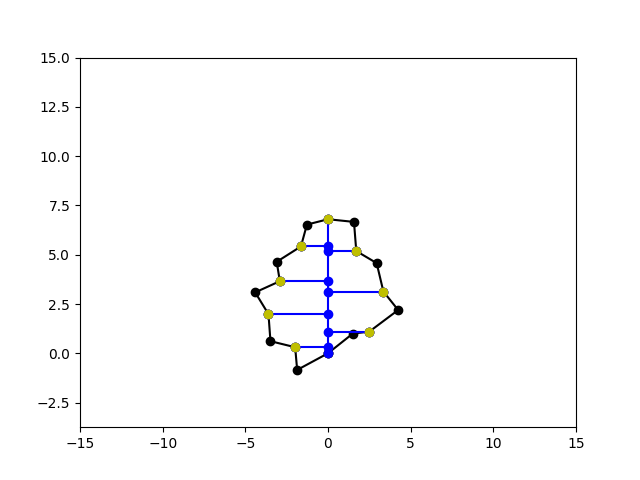
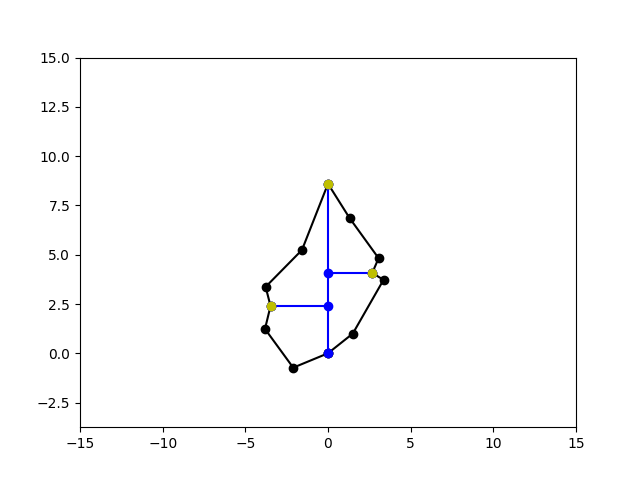
added adaptable interpolation, blockout for vein segments started

Changed region(s): [[0.375, 0.375, 0.625, 0.7812]]

diff --git a/Prototype1/growth.py b/Prototype1/growth.py
@@ -42,24 +42,28 @@ def bounding_distances(list_of_pts, left_pt, right_pt):
     return euc_res_left, euc_res_right
 
 
-def interpolate_pts(pt_A, pt_B, leaf, mustAdd):
+def interpolate_pts(pt_A, pt_B, leaf, mustAdd, interpolation):
     """Given two positions a new point is created between these points by linear interpolation"""
     x = [pt_A.pos[0], pt_B.pos[0]]
     y = [pt_A.pos[1], pt_B.pos[1]]
+    num_interp = 2 + interpolation
 
-    xnew = np.linspace(x[0], x[1], num=3, endpoint=True)
+    xnew = np.linspace(x[0], x[1], num=num_interp, endpoint=True)
     f = interp1d(x, y, kind='linear')
     ynew = f(xnew)
 
+    # for each interpolation point
     if mustAdd:
-        new_pt = Point([xnew[1], ynew[1]], 0, leaf.primordium_vein, 0, 0)
-        leaf.margin.insert_point(new_pt)
+        for i in range(1, interpolation + 1):
+            new_pt = Point([xnew[i], ynew[i]], 0, leaf.primordium_vein, 0, 0)
+            leaf.margin.insert_point(new_pt)
+        return 0
     return [xnew[1], ynew[1]]
 
 
 # LEAF DEVELOPMENT FUNCTIONS
 
-def init_cp_indicators(leaf):
+def init_cp_indicators(leaf, interpolation):
     cp_indicators, cp_index = leaf.margin.get_cp_indicators()
     print(f"cp_indicators:  {cp_indicators}, cp_index: {cp_index}")
     # check if points need to be interpolated
@@ -67,13 +71,13 @@ def init_cp_indicators(leaf):
         prev_i = 0
         # interpolate for the 0 index (separate due to special case index slicing)
         if cp_index[0] == 1:
-            interpolate_pts(leaf.margin.points[0], leaf.margin.points[1], leaf, True)
+            interpolate_pts(leaf.margin.points[0], leaf.margin.points[1], leaf, True, interpolation)
             cp_indicators, cp_index = leaf.margin.get_cp_indicators()
             print(f"cp_indicators:  {cp_indicators}, cp_index: {cp_index}")
         # interpolate if there are no points between cp
         for i in range(1, len(cp_index)):
             if (cp_index[i] - cp_index[prev_i]) <= 1:
-                interpolate_pts(leaf.margin.points[cp_index[prev_i]], leaf.margin.points[cp_index[i]], leaf, True)
+                interpolate_pts(leaf.margin.points[cp_index[prev_i]], leaf.margin.points[cp_index[i]], leaf, True, interpolation)
                 # recalculate cp_indicators
                 cp_indicators, cp_index = leaf.margin.get_cp_indicators()
                 print(f"cp_indicators:  {cp_indicators}, cp_index: {cp_index}")
@@ -92,59 +96,21 @@ def hard_coded_cp_addition(leaf):
     return leaf
 
 
-def create_anchor_point(cp, vein_assoc):
-    """draws a perpendicular line to the given vein.
-    Later this can be done with a theta adjustment."""
-    # find anchor point
-    vein = vein_assoc[-1]
-    anchor = vector_projection(cp.pos, vein.get_vector())
-    anchor_pt = Point(anchor.tolist(), 0, vein_assoc, 0, 0)
-
-    # add anchor point to corresponding vein
-    vein.insert_point(anchor_pt)
-
-    return anchor_pt
-
-
-def vein_addition(leaf):
-    """Connects unconnected Cp's with vein and adds new vein to leaf."""
-    for cp in leaf.margin.all_cp:
-        print(f"creating new vein for: {cp}")
-        if cp.has_vein == 1:  # skip if already connected to a vein
-            print("has vein")
-            continue
-        else:
-            print("making new vein")
-            # create new vein
-            anchor_pt = create_anchor_point(cp, cp.vein_assoc)
-            new_vein = Vein([anchor_pt, cp], anchor_pt, cp)
-
-            # add vein to vein assoc
-            anchor_pt.connect_to_new_vein(new_vein)
-            anchor_pt.has_vein = 1
-            cp.connect_to_new_vein(new_vein)
-            cp.has_vein = 1
-
-            # add vein to leaf
-            leaf.add_vein(new_vein)
-    return leaf
-
-
 def calculate_gr(dist, dir, gr):
     """multiply direction * gr * distance"""
 
     # TODO ! Normalize distance from 0 to 1 ? if necessary for precision later
-    temp_growth = (gr * dir)/dist
+    temp_growth = (gr * dir) / dist
     # print(f"dist { dist} temp_growth: {temp_growth}")
     return temp_growth
 
 
-def expand_veins(leaf, gr):
+def expand_veins(leaf, gr, interpolation):
     """Expand the cp on margin in the direction of their veins
     by a growth rate (gr)"""
-    cp_indicators, cp_index = init_cp_indicators(leaf)
+    cp_indicators, cp_index = init_cp_indicators(leaf, interpolation)
     prev_cp_i = 0
-    gr_total = np.zeros((len(cp_indicators),2))
+    gr_total = np.zeros((len(cp_indicators), 2))
     # maybe change to 0 later or just to a minimal value instead?
     prev_vein_dir = -1 * normalize_vec(leaf.primordium_vein.get_vector())
     for i in range(1, len(cp_indicators)):
@@ -152,10 +118,10 @@ def expand_veins(leaf, gr):
             # TODO ! Bug: Last point doesn't grow with the rest
             if cp_index == []:
                 next_cp_i = 0
-                if (prev_cp_i + 1) == (len(cp_indicators)-1):
+                if (prev_cp_i + 1) == (len(cp_indicators) - 1):
                     margin_part = [leaf.margin.points[(prev_cp_i + 1)]]
                 else:
-                    margin_part = leaf.margin.points[(prev_cp_i + 1):(len(cp_indicators)-1)]
+                    margin_part = leaf.margin.points[(prev_cp_i + 1):(len(cp_indicators) - 1)]
             else:
                 next_cp_i = cp_index[0]
                 margin_part = leaf.margin.points[(prev_cp_i + 1):next_cp_i]
@@ -173,7 +139,7 @@ def expand_veins(leaf, gr):
             temp_prev = calculate_gr(prev_dist, prev_vein_dir, gr)
             temp_next = calculate_gr(next_dist, next_vein_dir, gr)
             if cp_index == []:
-                gr_total[(prev_cp_i + 1):len(cp_indicators)-1] = temp_next + temp_prev
+                gr_total[(prev_cp_i + 1):len(cp_indicators) - 1] = temp_next + temp_prev
                 leaf.margin.grow(gr_total)
                 return leaf
             else:
@@ -184,7 +150,7 @@ def expand_veins(leaf, gr):
             # move margin for next iteration
             prev_cp_i = next_cp_i
             prev_vein_dir = next_vein_dir
-    return 1
+    # return 1
 
 
 def calculate_margin_distance(margin_part):
@@ -205,13 +171,14 @@ def calculate_margin_distance(margin_part):
 def insert_cp(vein_assoc, margin_part, dist_array, dist_sum):
     """Inserts a new cp in the middle of two cps."""
 
-    middle = dist_sum/2
+    middle = dist_sum / 2
     temp_dist = 0
     pos = np.zeros(2)
     for i in range(1, len(dist_array)):
         temp_dist += dist_array[i]
         if temp_dist >= middle:
-            pos = interpolate_pts(margin_part[i-1], margin_part[i], None, False)
+            pos = interpolate_pts(margin_part[i - 1], margin_part[i], None, False, 1)
+            print(f"interpolated position: {pos}")
             break
 
     new_cp = Point(pos, 1, vein_assoc, 0, 0)
@@ -219,26 +186,27 @@ def insert_cp(vein_assoc, margin_part, dist_array, dist_sum):
     return new_cp
 
 
-def introduce_new_cp(leaf, cp_th):
+def introduce_new_cp(leaf, cp_th, interpolation):
     """Introduces new cp where the boundary distance exceeds a certain distance threshold"""
-    cp_indicators, cp_index = init_cp_indicators(leaf)
+    cp_indicators, cp_index = init_cp_indicators(leaf, interpolation)
     prev_cp_i = 0
     new_cps = []
     for i in range(1, len(cp_indicators)):
         # define next margin part
         if cp_indicators[i] == 1 or cp_index == []:
             if cp_index == []:
-                margin_part = leaf.margin.points[prev_cp_i:(len(cp_indicators)-1)]
+                margin_part = leaf.margin.points[prev_cp_i:(len(cp_indicators) - 1)]
                 margin_part = margin_part + [leaf.margin.end_point]
             else:
                 next_cp_i = cp_index[0]
-                margin_part = leaf.margin.points[prev_cp_i:(next_cp_i+1)]
+                margin_part = leaf.margin.points[prev_cp_i:(next_cp_i + 1)]
             print(f"cp_index = {cp_index}")
 
             # insert new cp if it exceeds the margin
             dist_array, dist_sum = calculate_margin_distance(margin_part)
             if cp_th < dist_sum:
-                new_cps.append(insert_cp([leaf.primordium_vein], margin_part, dist_array, dist_sum))
+                new_cp = insert_cp([leaf.primordium_vein], margin_part, dist_array, dist_sum)
+                new_cps.append(new_cp)
             print(f"number of cp's to add: {len(new_cps)}")
 
             if cp_index == []:
@@ -254,3 +222,67 @@ def introduce_new_cp(leaf, cp_th):
 
     return 1
 
+
+def find_optimal_angle(segment, kv):
+    """Finds the optimal vein angle by applying cos-1(kv/km)"""
+
+    theta = np.arccos(kv/1)
+
+    return theta
+
+
+def define_segment(all_cp, cp_i):
+    """This function returns all the veins surrounding the convergence point."""
+
+    # get veins enclosing the segment of the new cp
+    base = all_cp[cp_i].vein_assoc[-1]
+    left = all_cp[cp_i - 1].vein_assoc[-1]
+    right = all_cp[cp_i + 1].vein_assoc[-1]
+
+    segment = [left, base, right]
+
+    return segment
+
+
+def create_anchor_point(cp, vein_assoc):
+    """draws a perpendicular line to the given vein.
+    Later this can be done with a theta adjustment."""
+    # find anchor point
+    vein = vein_assoc[-1]
+    anchor = vector_projection(cp.pos, vein.get_vector())
+    anchor_pt = Point(anchor.tolist(), 0, vein_assoc, 0, 0)
+
+    # add anchor point to corresponding vein
+    vein.insert_point(anchor_pt)
+
+    return anchor_pt
+
+
+def vein_addition(leaf, kv):
+    """Connects unconnected Cp's with vein and adds new vein to leaf."""
+    for cp_i in range(len(leaf.margin.all_cp)):
+        cp = leaf.margin.all_cp[cp_i]
+        print(f"creating new vein for: {cp}")
+        if cp.has_vein == 1:  # skip if already connected to a vein
+            print("has vein")
+            continue
+        else:
+            print("making new vein")
+            # create new vein
+
+            # TODO! replace create_anchor_point by find_optimal_angle etc
+            # segment = define_segment(leaf.margin.all_cp, cp_i)
+            # theta_anchor_pt = find_optimal_angle(segment, kv)
+
+            anchor_pt = create_anchor_point(cp, cp.vein_assoc)
+            new_vein = Vein([anchor_pt, cp], anchor_pt, cp)
+
+            # add vein to vein assoc
+            anchor_pt.connect_to_new_vein(new_vein)
+            anchor_pt.has_vein = 1
+            cp.connect_to_new_vein(new_vein)
+            cp.has_vein = 1
+
+            # add vein to leaf
+            leaf.add_vein(new_vein)
+    return leaf

diff --git a/Prototype1/Main.py b/Prototype1/Main.py
@@ -3,30 +3,33 @@ import visualization as vis
 from growth import *
 import matplotlib.pyplot as plt
 
+STEPS = 15 #simulation steps
+INTERPOLATION = 3 #number of points to interpolate between margin points (min 1)
+GR = 0.4
+CP_TH = 8.5
+KV = 1 #vasculatory auxin movement rate
+LEAF_PATH = "../img/plot_data/" #where to save plot data
+BASE_NAME = "leaf_" #base name of plots
 
-# adapted from Runions et al. 2017 approach for leaf development
-STEPS = 10
-LEAF_PATH = "../img/plot_data/"
-BASE_NAME = "leaf_"
 def main():
-
+    """Adapted from Runions et al. 2017 approach for leaf development"""
     leaf = initialize_default_leaf()
     vis.plot_leaf(leaf, 15, LEAF_PATH, BASE_NAME, 0)
     for i in range(STEPS):
         # growstep driven by expansion of veins
-        leaf = expand_veins(leaf, 0.2)
+        expand_veins(leaf, GR, INTERPOLATION)
         # modification of morphogen distribution
 
         # new convergence points & possible new morphogen distribution
-        if i == 0:
-            leaf = hard_coded_cp_addition(leaf)
+        if i < 0:
+            hard_coded_cp_addition(leaf)
         else:
-            leaf = introduce_new_cp(leaf, 3.5)
+            introduce_new_cp(leaf, CP_TH, INTERPOLATION)
             print(f"len of margin: {len(leaf.margin.points)}")
             print(f"all cp len: {len(leaf.margin.all_cp)}")
 
         # new vein addition
-        leaf = vein_addition(leaf)
+        vein_addition(leaf, KV)
 
         # plot leaf
         vis.plot_leaf(leaf, 15, LEAF_PATH, BASE_NAME, i+1)
